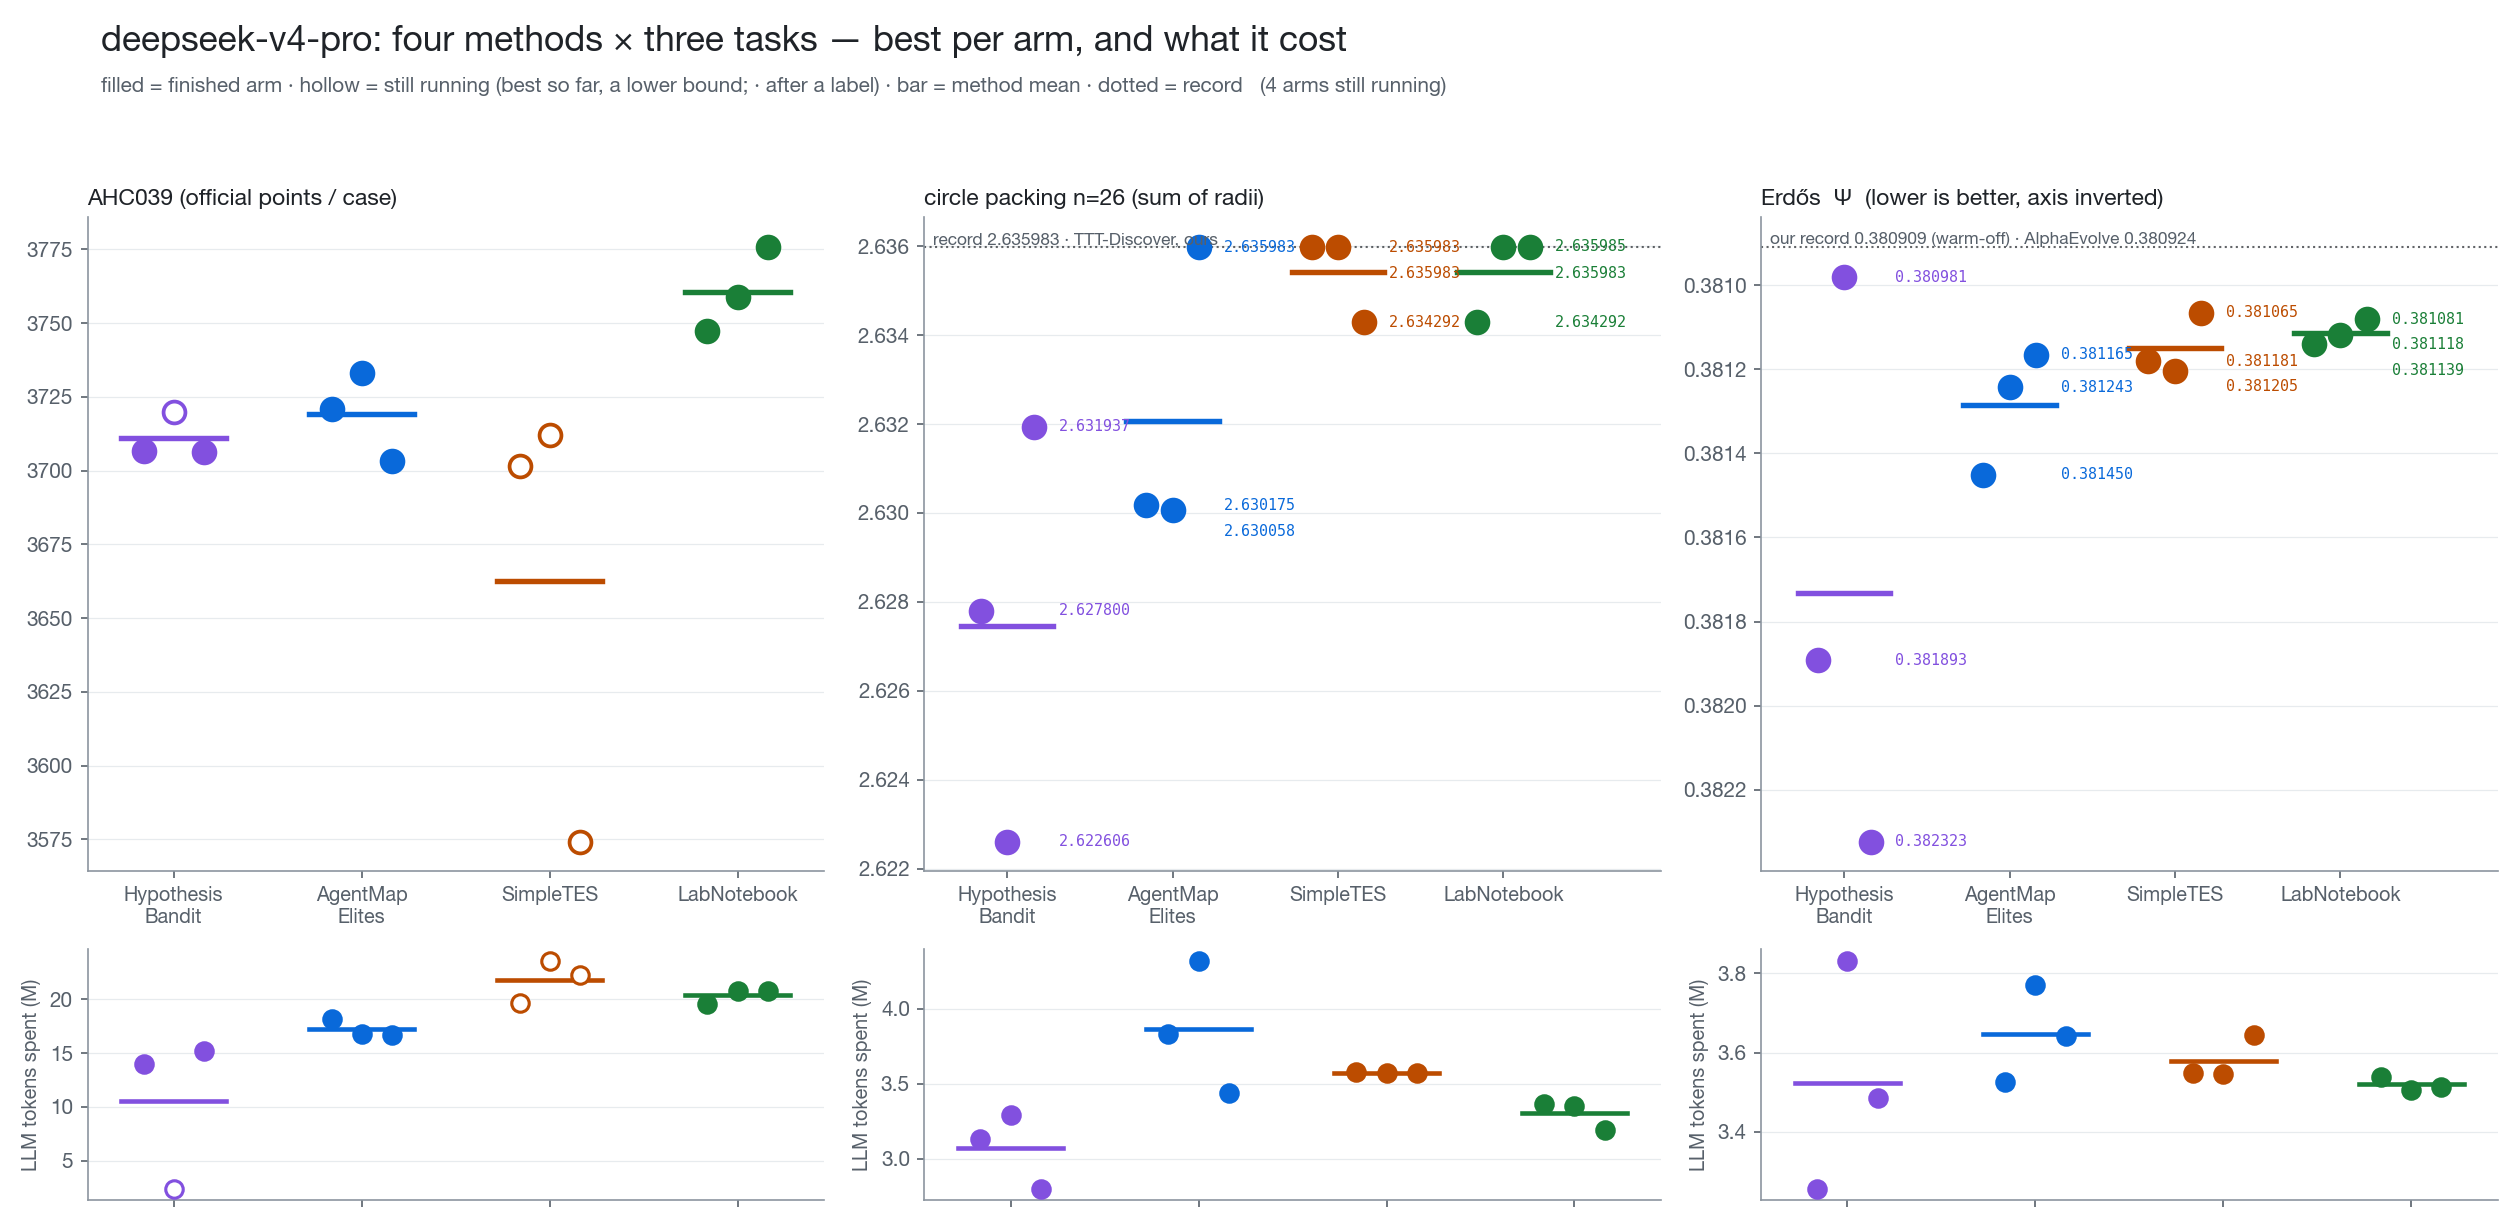
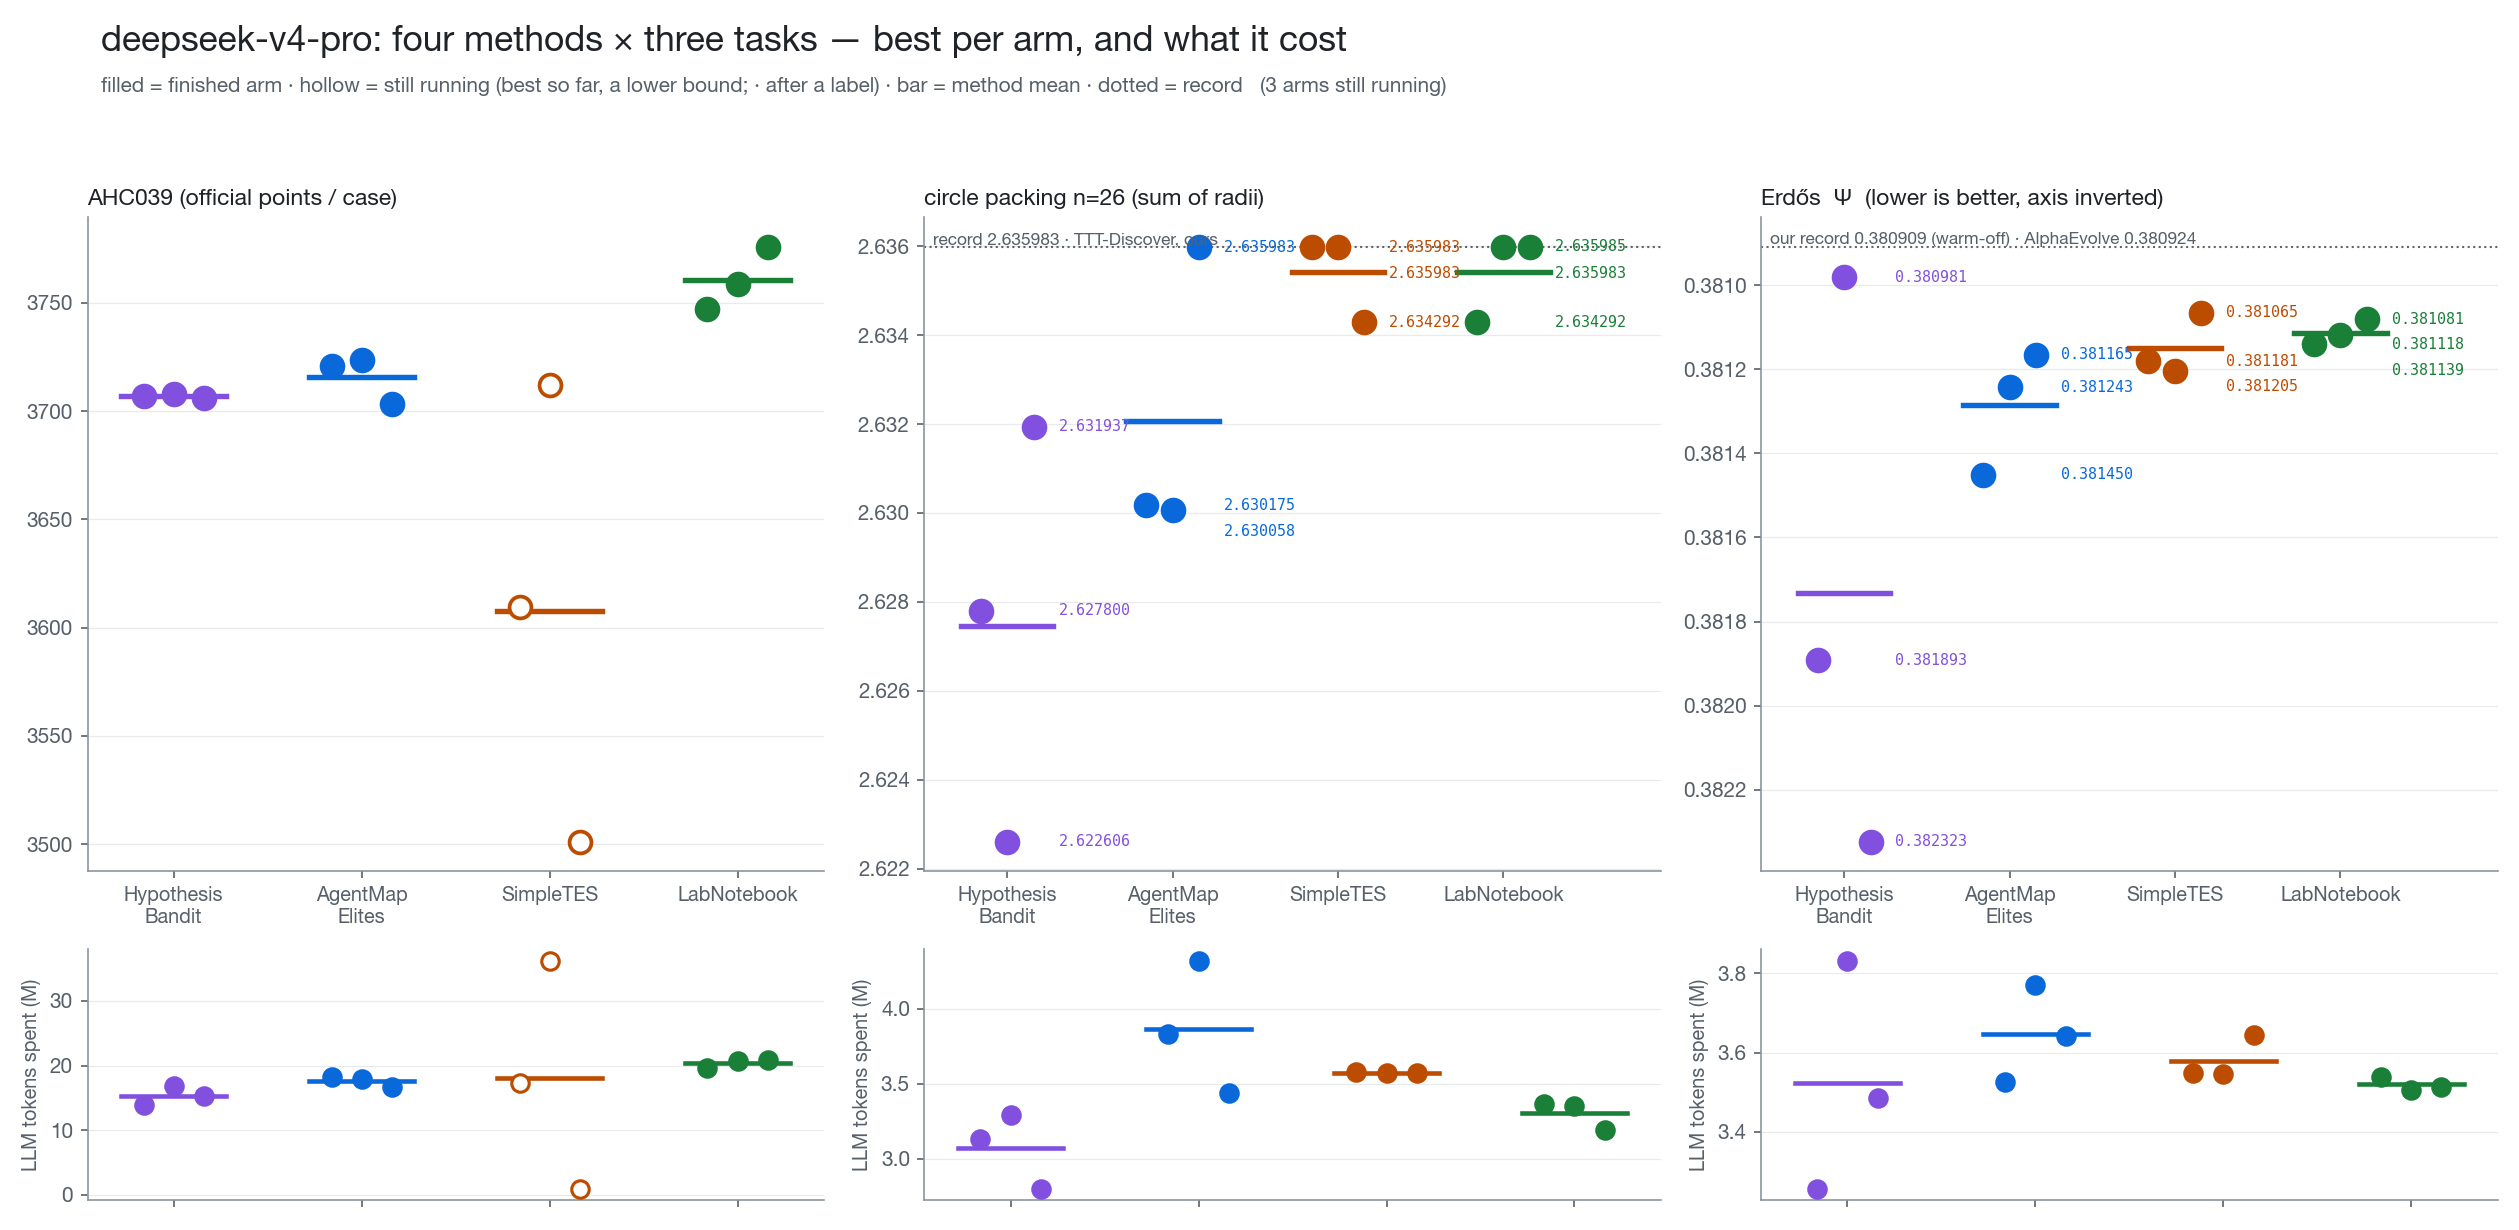
docs(evolution): pro table refreshed, AlphaEvolve-suite batch B snapshot, cost table regenerated

diff --git a/examples/evolution_bench/docs/lab_notebook_results.tex b/examples/evolution_bench/docs/lab_notebook_results.tex
@@ -83,17 +83,18 @@ steps --- each step is a cycle whose best trajectory beat the champion --- and k
 
 \begin{table}[H]\centering\small
 \caption{deepseek-v4-pro-0813, same budgets. AHC039 ran on its own eval server, so its points are
-comparable within this table, not with Table~\ref{tab:flash}. The three SimpleTES AHC039 arms
-and one HypothesisBandit arm were restarted after preemptions and are lower bounds.}
+comparable within this table, not with Table~\ref{tab:flash}. The three SimpleTES AHC039 arms are
+still running ($^\circ$, lower bounds); s2 was restarted from scratch by a Modal re-run under the
+pre-resume launcher and lost its first 197 calls.}
 \label{tab:pro}
 \begin{tabular}{@{}lrrrrr@{}}
 \toprule
 \multicolumn{6}{@{}l}{\textbf{AHC039}} \\
 method & s0 & s1 & s2 & mean & tokens \\
 \midrule
-HypothesisBandit & 3707 & 3720$^\circ$ & 3706 & 3711 & 10.5 \\
-AgentMapElites & 3721 & 3733 & 3703 & 3719 & 17.2 \\
-SimpleTES & 3701$^\circ$ & 3712$^\circ$ & 3574$^\circ$ & 3663 & 21.8 \\
+HypothesisBandit & 3707 & 3708 & 3706 & 3707 & 15.3 \\
+AgentMapElites & 3721 & 3724 & 3703 & 3716 & 17.6 \\
+SimpleTES & 3610$^\circ$ & 3712$^\circ$ & 3501$^\circ$ & 3608 & 18.1 \\
 \textbf{LabNotebook} & 3747 & 3759 & \textbf{3776} & \textbf{3761} & 20.4 \\
 \midrule
 \multicolumn{6}{@{}l}{\textbf{circle packing $n{=}26$}} \\
@@ -119,7 +120,7 @@ $10^{-12}$ tolerance; at zero tolerance it is 2.635983.
 \begin{figure}[H]\centering
 \includegraphics[width=\textwidth]{lab_notebook_figs/overview_pro.png}
 \caption{Pro campaign. On AHC039 every LabNotebook arm is above every finished arm of every
-other method; 3776 is the best score of both campaigns. Packing and Erd\H{o}s are ties within
+other method (next best: MAP-Elites 3724); 3776 is the best score of both campaigns. Packing and Erd\H{o}s are ties within
 replicate spread --- both are problems where the answer is a known local optimum that any good
 inner optimizer reaches.}
 \end{figure}
@@ -245,6 +246,50 @@ v1, with the 2026 systems a clear band above. $C_2$: above AlphaEvolve v1 and th
 below the 2026 band.}
 \end{figure}
 
+\paragraph{Batch B (in progress).} Third autocorrelation inequality ($C_3$, upper bound, lower is
+better; harness score $1.4556/C_3$), sums vs differences ($C(A)$, higher is better) and the
+Hadamard maximal determinant of order 29 (score $|\det|$ relative to a reference; no published
+value recorded). Published: $C_3$ --- AlphaEvolve 1.4556, TTT-Discover 1.454555, SimpleTES 1.453675
+(record); $C(A)$ --- SimpleTES 1.1449. Table~\ref{tab:aeb} is a snapshot with most LabNotebook and
+SimpleTES arms still running; the MAP-Elites $C_3$ value of 1.45363 would sit below the published
+record and is awaiting re-verification.
+
+\begin{table}[H]\centering\small
+\caption{Batch B snapshot (2026-09-04 06:30 PDT). $^\circ$ = still running (lower bound); a dash is
+an arm without data yet.}
+\label{tab:aeb}
+\begin{tabular}{@{}lrrrrr@{}}
+\toprule
+\multicolumn{6}{@{}l}{\textbf{$C_3$, third autocorrelation inequality} --- upper bound, lower is better} \\
+method & s0 & s1 & s2 & mean & tokens \\
+\midrule
+HypothesisBandit & 1.47688 & 1.72827 & 1.46265 & 1.55594 & 3.7 \\
+AgentMapElites & 1.45363 & 3.15846 & 1.48264 & 2.03158 & 4.2 \\
+SimpleTES & 1.46605 & 1.46347$^\circ$ & 1.47281 & 1.46744 & 3.2 \\
+LabNotebook & 1.54943$^\circ$ & 1.48908$^\circ$ & 1.47280$^\circ$ & 1.50377 & 1.6 \\
+\midrule
+\multicolumn{6}{@{}l}{\textbf{sums vs differences} --- $C(A)$, higher is better} \\
+\midrule
+HypothesisBandit & 1.0787 & 1.0668 & 1.0598 & 1.0684 & 3.5 \\
+AgentMapElites & 1.0598$^\circ$ & 1.0625 & --- & 1.0612 & 4.0 \\
+SimpleTES & 1.0668$^\circ$ & 1.0677 & 1.0621$^\circ$ & 1.0655 & 2.7 \\
+LabNotebook & 1.0668$^\circ$ & \textbf{1.0865} & 1.0598$^\circ$ & 1.0710 & 2.0 \\
+\midrule
+\multicolumn{6}{@{}l}{\textbf{Hadamard, order 29} --- $|\det|$ / reference, higher is better} \\
+\midrule
+HypothesisBandit & 0.4791$^\circ$ & 0.4378 & 0.5558 & 0.4909 & 3.4 \\
+AgentMapElites & 0.1433 & 0.5037 & 0.1433 & 0.2634 & 4.0 \\
+SimpleTES & 0.8596$^\circ$ & 0.5695$^\circ$ & 0.8066$^\circ$ & 0.7452 & 1.3 \\
+LabNotebook & 0.5582$^\circ$ & 0.8596$^\circ$ & 0.4637$^\circ$ & 0.6272 & 1.7 \\
+\bottomrule
+\end{tabular}
+\end{table}
+
+\begin{figure}[H]\centering
+\includegraphics[width=\textwidth]{lab_notebook_figs/overview_ae_batchB.png}
+\caption{Batch B snapshot. Hollow markers are arms still running.}
+\end{figure}
+
 \subsection{Cost}
 
 \begin{center}\small
@@ -254,16 +299,16 @@ below the 2026 band.}
 \cmidrule(lr){2-4}\cmidrule(lr){5-7}
 \$ per finished arm (arms) & AHC039 & packing & Erd\H{o}s & AHC039 & packing & Erd\H{o}s \\
 \midrule
-HypothesisBandit & \$0.79{\scriptsize\,(3)} & \$0.17{\scriptsize\,(3)} & \$0.16{\scriptsize\,(3)} & \$9.66{\scriptsize\,(2)} & \$2.07{\scriptsize\,(3)} & \$2.35{\scriptsize\,(3)} \\
-AgentMapElites & \$0.82{\scriptsize\,(3)} & \$0.19{\scriptsize\,(3)} & \$0.19{\scriptsize\,(3)} & \$11.36{\scriptsize\,(3)} & \$2.55{\scriptsize\,(3)} & \$2.41{\scriptsize\,(3)} \\
-SimpleTES & \$1.59{\scriptsize\,(1)} & \$0.28{\scriptsize\,(2)} & \$0.32{\scriptsize\,(3)} & --- & \$5.42{\scriptsize\,(3)} & \$5.97{\scriptsize\,(3)} \\
+HypothesisBandit & \$0.79{\scriptsize\,(3)} & \$0.17{\scriptsize\,(3)} & \$0.16{\scriptsize\,(3)} & \$10.17{\scriptsize\,(3)} & \$2.07{\scriptsize\,(3)} & \$2.35{\scriptsize\,(3)} \\
+AgentMapElites & \$0.82{\scriptsize\,(3)} & \$0.19{\scriptsize\,(3)} & \$0.19{\scriptsize\,(3)} & \$11.61{\scriptsize\,(3)} & \$2.55{\scriptsize\,(3)} & \$2.41{\scriptsize\,(3)} \\
+SimpleTES & \$1.80{\scriptsize\,(3)} & \$0.29{\scriptsize\,(3)} & \$0.32{\scriptsize\,(3)} & --- & \$5.42{\scriptsize\,(3)} & \$5.97{\scriptsize\,(3)} \\
 LabNotebook & \$1.26{\scriptsize\,(3)} & \$0.29{\scriptsize\,(3)} & \$0.31{\scriptsize\,(3)} & \$25.41{\scriptsize\,(3)} & \$5.20{\scriptsize\,(3)} & \$5.89{\scriptsize\,(3)} \\
 \bottomrule
 \end{tabular}
 \end{center}
 
 \noindent Token-priced at OpenRouter's rates (flash \$0.05/\$0.10 per M prompt/completion; pro
-\$0.66/\$1.98), finished arms only, so the pro SimpleTES AHC039 column is empty. LabNotebook is
+\$0.66/\$1.98), finished arms only, so the pro SimpleTES AHC039 cell is empty. LabNotebook is
 not cheaper than the others: on the small tasks all four methods spend to the same token ceiling,
 and on AHC039 --- where nothing but the call cap binds --- LabNotebook and SimpleTES are the two
 methods that keep spending to the end. The five notebook calls per cycle are a small share of
